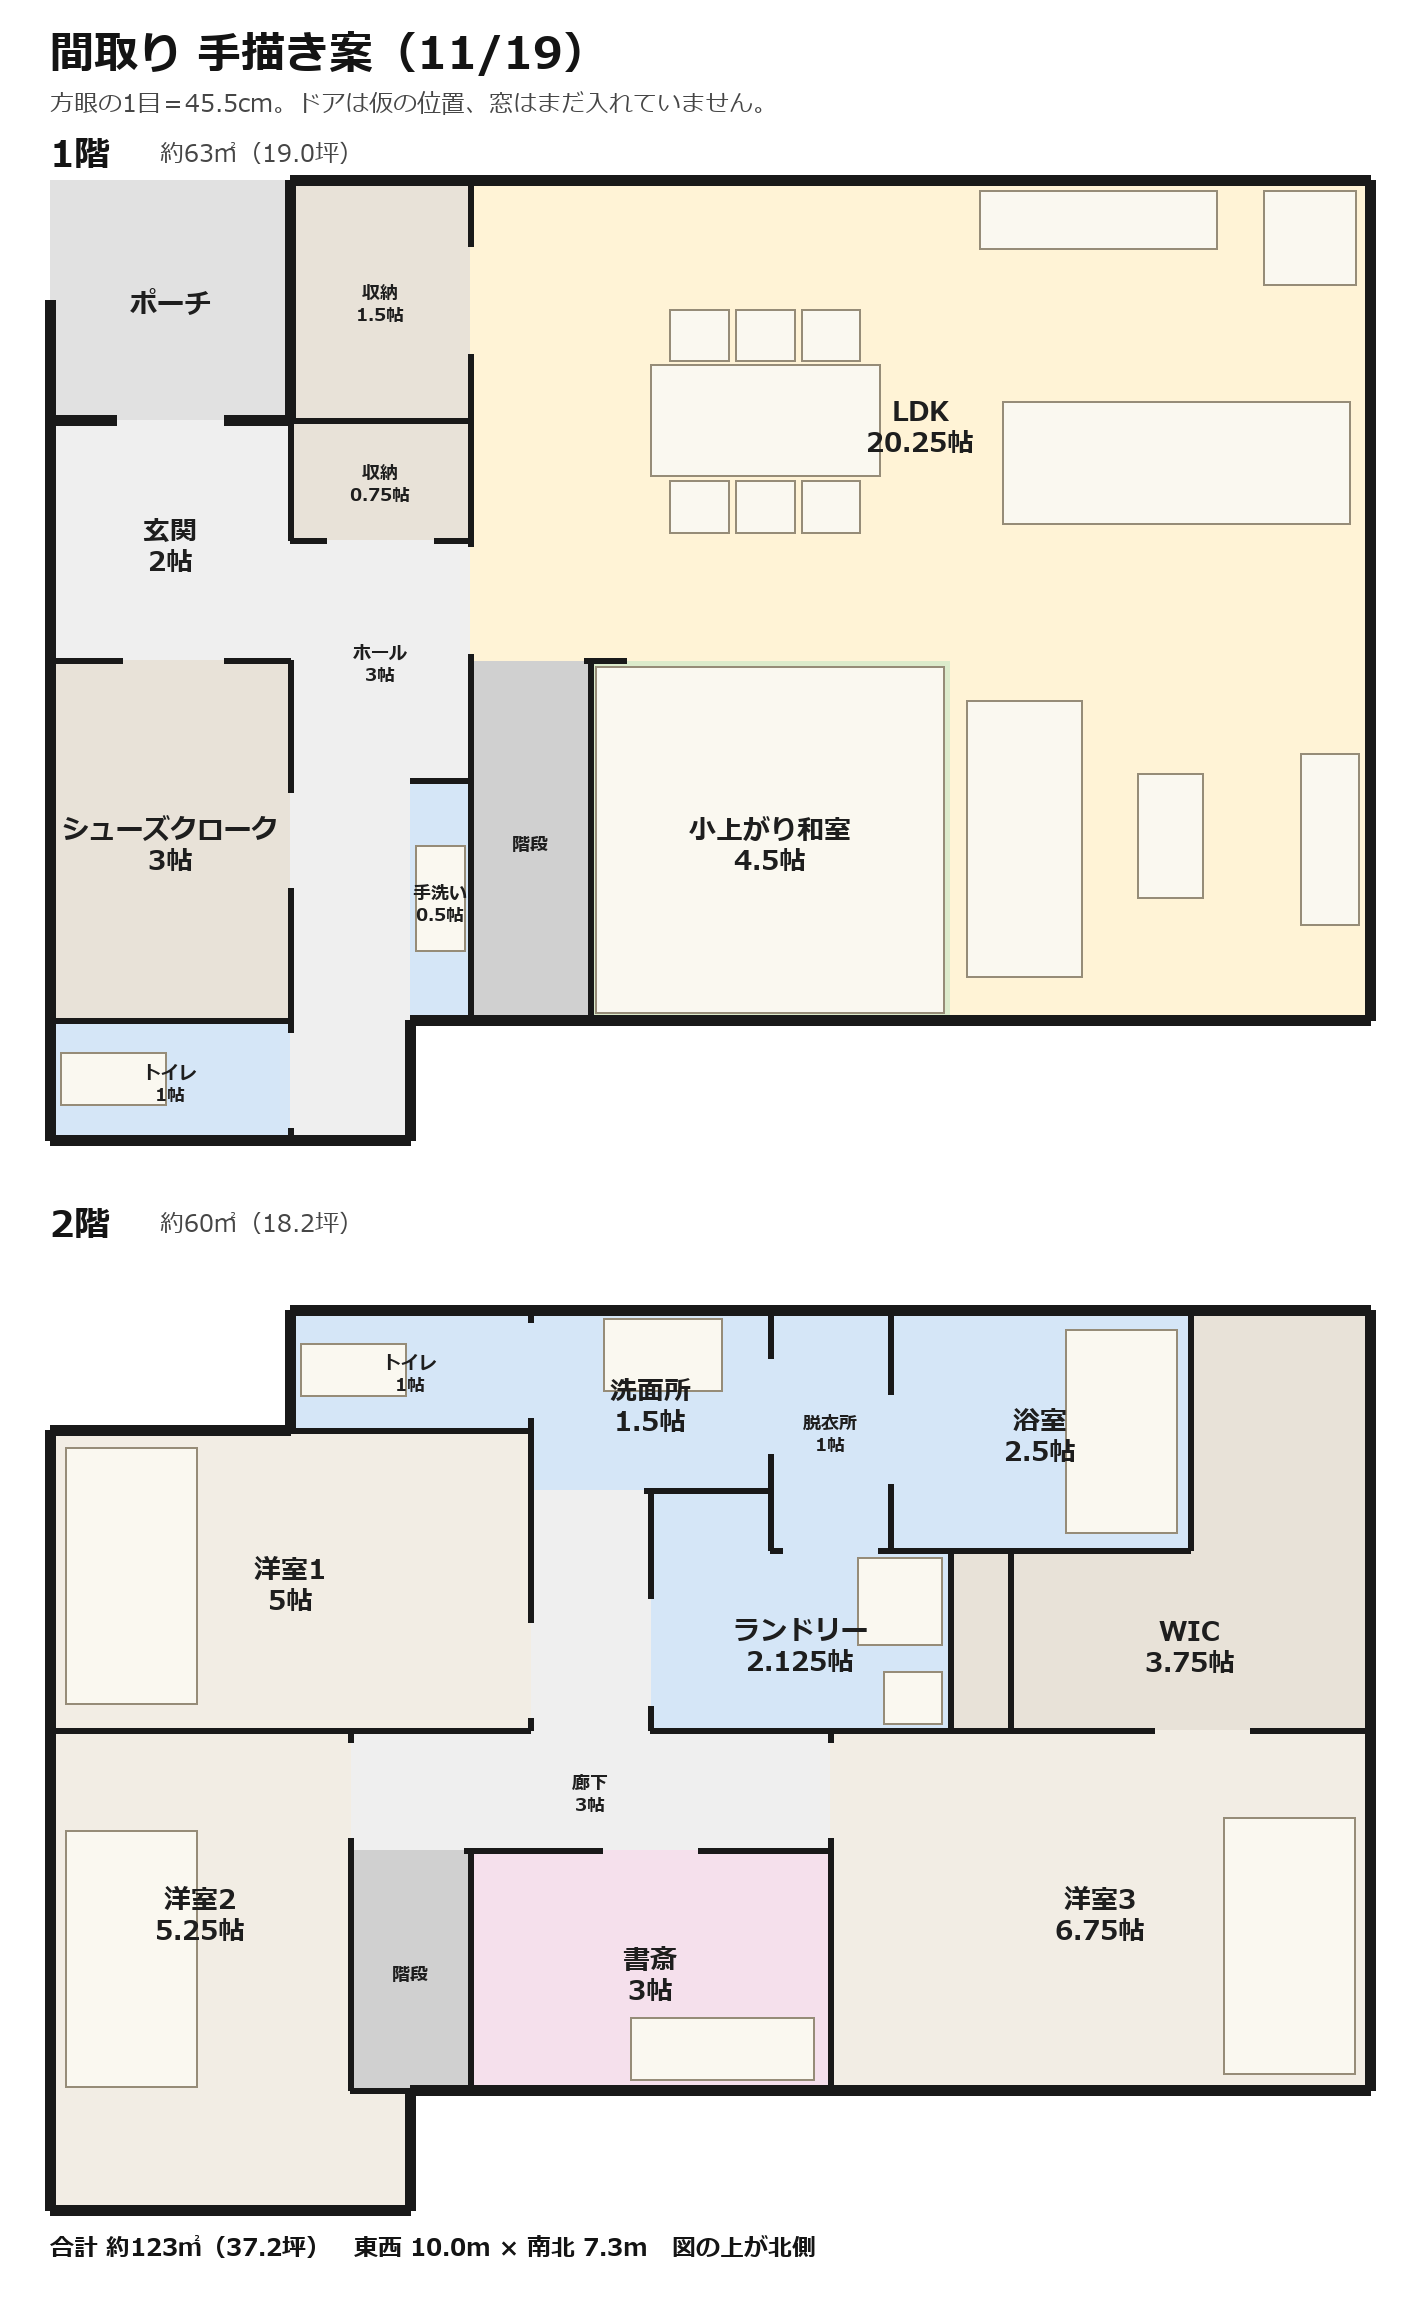
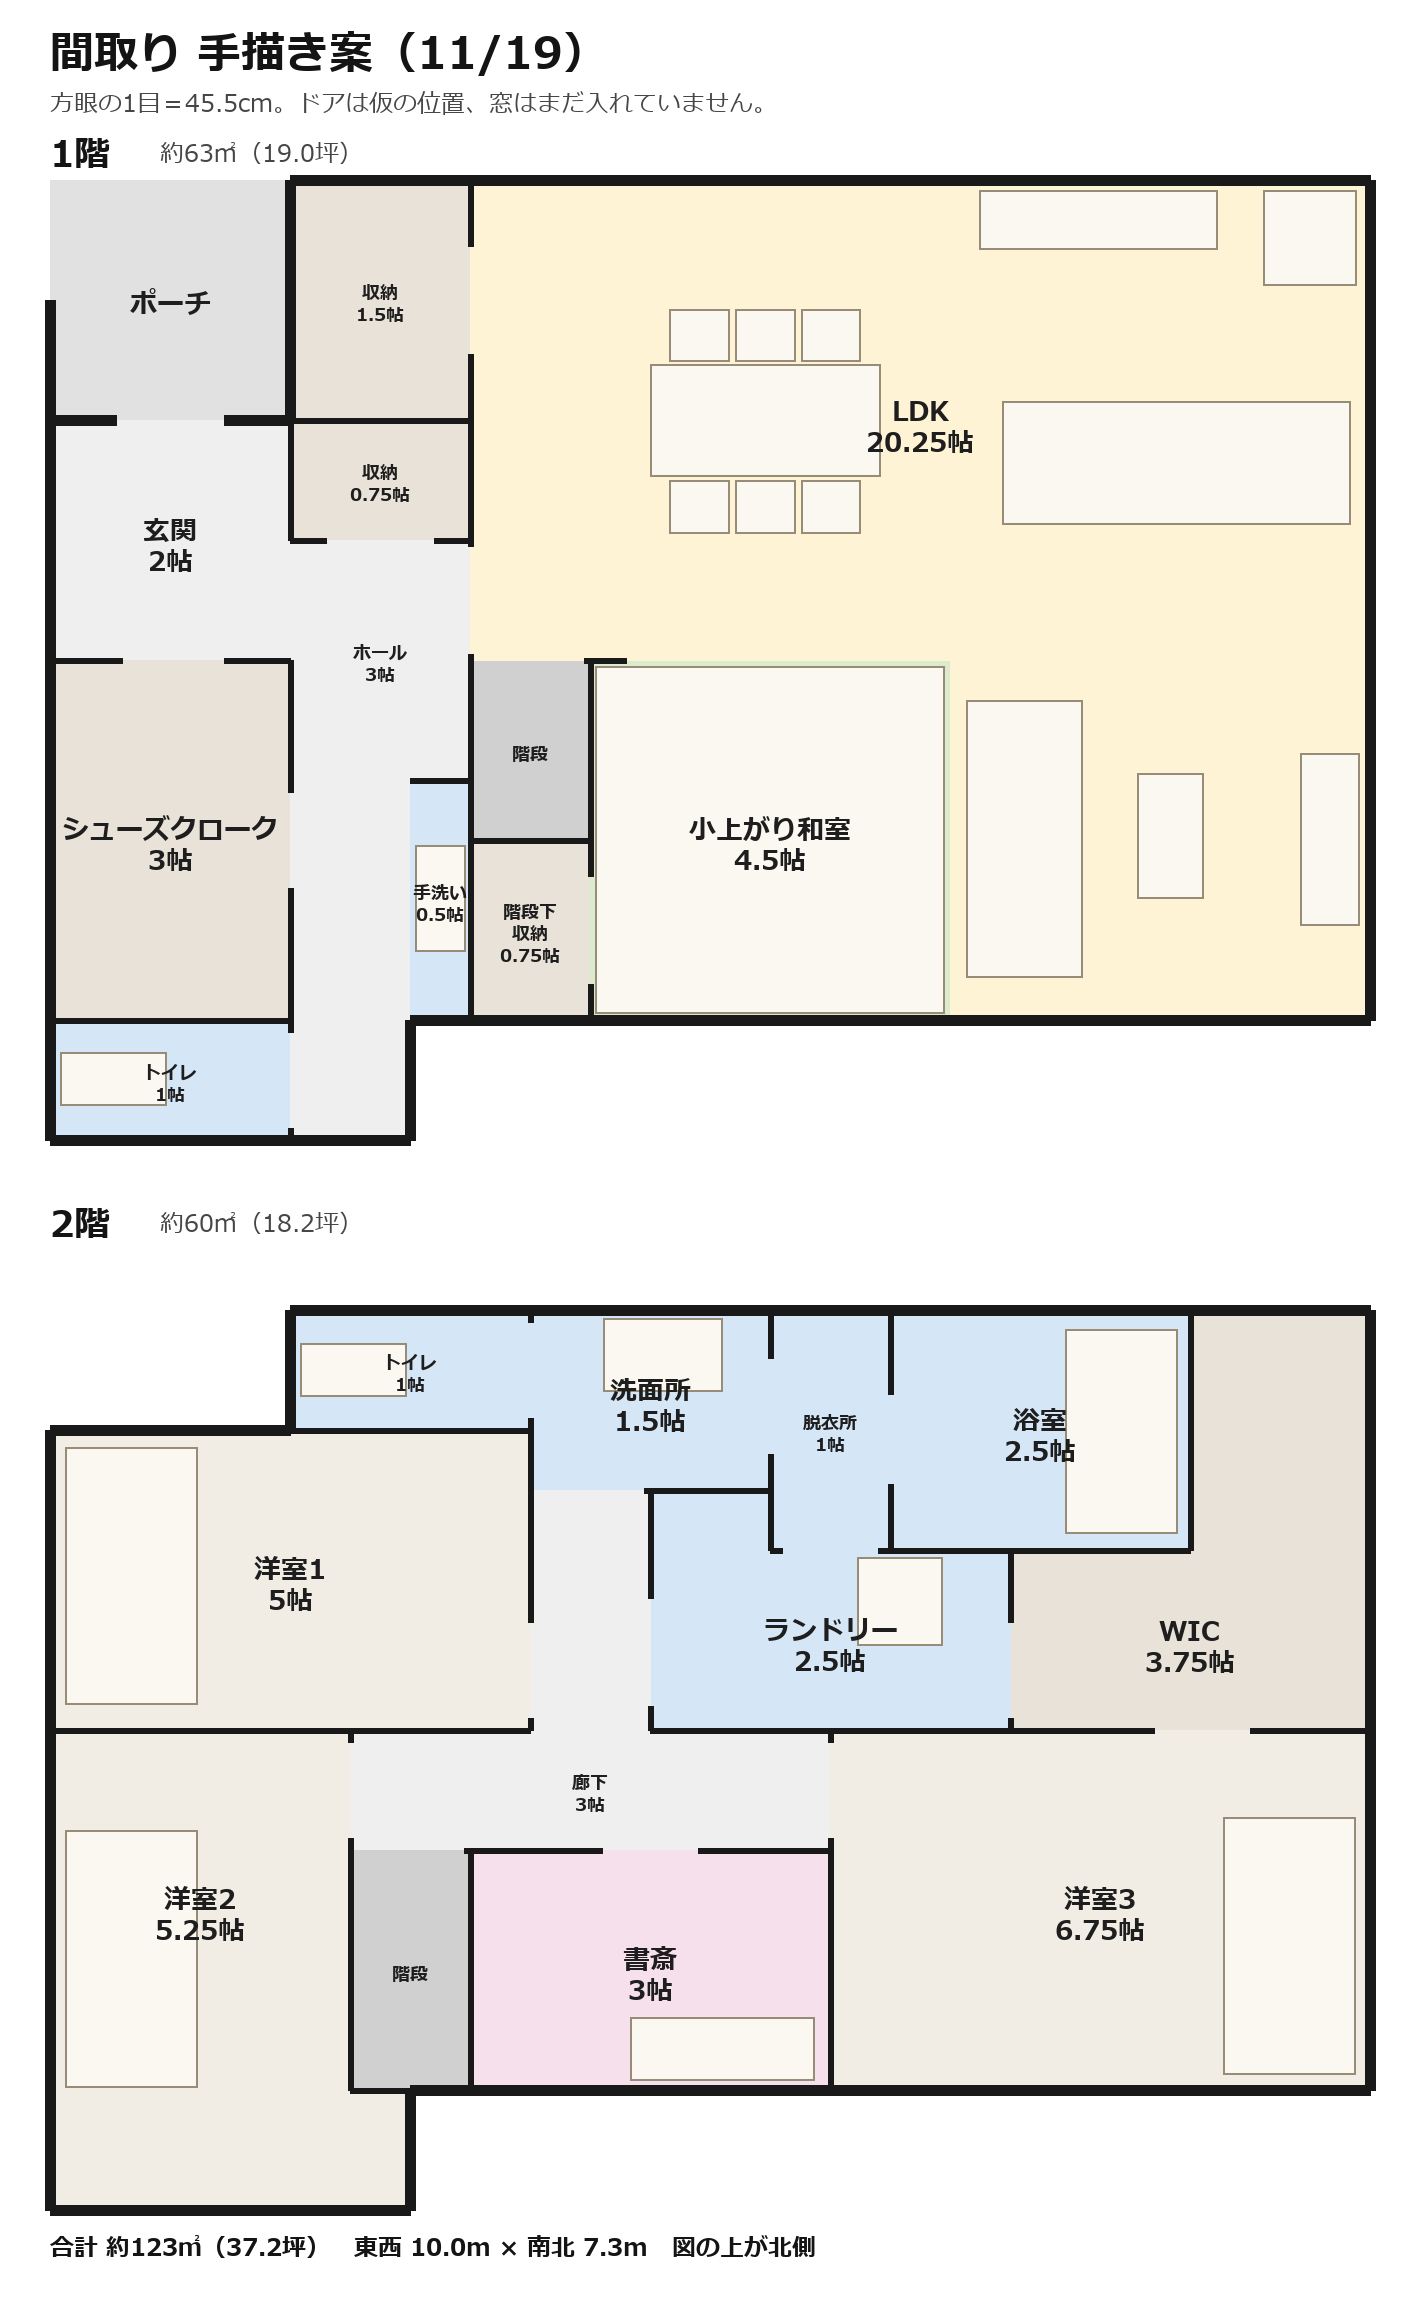
間取り 手描き案：ランドリーからWICへの出入口と階段下収納を追加

Changed region(s): [[0.5268, 0.6483, 0.7127, 0.7717], [0.3408, 0.4013, 0.4338, 0.4322], [0.3408, 0.3396, 0.4028, 0.3704]]

diff --git a/madori.html b/madori.html
@@ -52,7 +52,7 @@ canvas { display:block; width:100%; height:100%; touch-action:none; }
 <script type="module">
 import * as THREE from 'three';
 import { OrbitControls } from 'three/addons/controls/OrbitControls.js';
-const D = {"W":11,"H":8,"floors":[{"rooms":[{"name":"ポーチ","kind":"外","rects":[[0,0,2,2]],"label":"ポーチ"},{"name":"玄関","kind":"通路","rects":[[0,2,2,4]],"label":"玄関"},{"name":"シューズクローク","kind":"収納","rects":[[0,4,2,7]],"label":"シューズクローク"},{"name":"トイレ","kind":"水回り","rects":[[0,7,2,8]],"label":"トイレ"},{"name":"収納","kind":"収納","rects":[[2,0,3.5,2]],"label":"収納"},{"name":"収納(小)","kind":"収納","rects":[[2,2,3.5,3]],"label":"収納(小)"},{"name":"ホール","kind":"通路","rects":[[2,3,3.5,5],[2,5,3,8]],"label":"ホール"},{"name":"手洗い","kind":"水回り","rects":[[3,5,3.5,7]],"label":"手洗い"},{"name":"階段","kind":"階段","rects":[[3.5,4,4.5,7]],"label":"階段"},{"name":"和室","kind":"和室","rects":[[4.5,4,7.5,7]],"label":"小上がり和室"},{"name":"LDK","kind":"LDK","rects":[[3.5,0,11,4],[7.5,4,11,7]],"label":"LDK"}],"walls":[[[2.0,0.0,2.0,2.0],"ext"],[[3.5,0.0,3.5,0.55],"int"],[[3.5,1.45,3.5,3.05],"int"],[[3.5,3.95,3.5,7.0],"int"],[[11.0,0.0,11.0,7.0],"ext"],[[0.0,2.0,0.0,8.0],"ext"],[[2.0,2.0,2.0,3.0],"int"],[[2.0,4.0,2.0,5.1],"int"],[[2.0,5.9,2.0,7.1],"int"],[[2.0,7.9,2.0,8.0],"int"],[[4.5,4.0,4.5,7.0],"int"],[[3.0,7.0,3.0,8.0],"ext"],[[0.0,2.0,0.55,2.0],"ext"],[[1.45,2.0,2.0,2.0],"ext"],[[0.0,4.0,0.6,4.0],"int"],[[1.45,4.0,2.0,4.0],"int"],[[4.45,4.0,4.8,4.0],"int"],[[0.0,7.0,2.0,7.0],"int"],[[0.0,8.0,3.0,8.0],"ext"],[[2.0,0.0,11.0,0.0],"ext"],[[2.0,2.0,3.5,2.0],"int"],[[2.0,3.0,2.3,3.0],"int"],[[3.2,3.0,3.5,3.0],"int"],[[3.0,5.0,3.5,5.0],"int"],[[3.0,7.0,11.0,7.0],"ext"],[[0,1,0,2],"ext"]],"furn":[[1,"カップボード","kitchenCabinet",705,8,885,53,90,"S"],[1,"冷蔵庫(600L級)","fridgeFreezer",920,8,991,80,183,"S"],[1,"キッチン（シンク・IH）","kitchenCabinet",722,168,986,261,90,"N"],[1,"ダイニングテーブル","table",455,140,630,225,72,"S"],[1,"椅子","chair",470,98,515,138,85,"S"],[1,"椅子","chair",520,98,565,138,85,"S"],[1,"椅子","chair",570,98,615,138,85,"S"],[1,"椅子","chair",470,228,515,268,85,"N"],[1,"椅子","chair",520,228,565,268,85,"N"],[1,"椅子","chair",570,228,615,268,85,"N"],[1,"小上がり（高さ30cm）","texturableBox",414,369,678,632,30,"S"],[1,"ソファ","sofa2",695,395,783,605,85,"E"],[1,"ローテーブル","coffeeTable",825,450,875,545,40,"E"],[1,"テレビ台","flatTV",948,435,993,565,60,"W"],[1,"便器","toiletUnit",8,662,88,702,62,"E"],[1,"手洗い","washbasinWithCabinet",277,505,315,585,85,"W"]]},{"rooms":[{"name":"トイレ","kind":"水回り","rects":[[2,0.5,4,1.5]],"label":"トイレ"},{"name":"洗面所","kind":"水回り","rects":[[4,0.5,6,2]],"label":"洗面所"},{"name":"脱衣所","kind":"水回り","rects":[[6,0.5,7,2.5]],"label":"脱衣所"},{"name":"浴室","kind":"水回り","rects":[[7,0.5,9.5,2.5]],"label":"浴室"},{"name":"WIC","kind":"収納","rects":[[9.5,0.5,11,2.5],[8,2.5,11,4]],"label":"WIC"},{"name":"ランドリー","kind":"水回り","rects":[[5,2,6,2.5],[5,2.5,7.5,4]],"label":"ランドリー"},{"name":"PS?","kind":"収納","rects":[[7.5,2.5,8,4]],"label":"PS?"},{"name":"廊下","kind":"通路","rects":[[4,2,5,4],[2.5,4,6.5,5]],"label":"廊下"},{"name":"洋室1","kind":"個室","rects":[[0,1.5,4,4]],"label":"洋室1"},{"name":"洋室2","kind":"個室","rects":[[0,4,2.5,7],[0,7,3,8]],"label":"洋室2"},{"name":"階段","kind":"階段","rects":[[2.5,5,3.5,7]],"label":"階段"},{"name":"書斎?","kind":"書斎","rects":[[3.5,5,6.5,7]],"label":"書斎?"},{"name":"洋室3","kind":"個室","rects":[[6.5,4,11,7]],"label":"洋室3"}],"walls":[[[2.0,0.5,2.0,1.5],"ext"],[[4.0,0.5,4.0,0.6],"int"],[[4.0,1.4,4.0,3.1],"int"],[[4.0,3.9,4.0,4.0],"int"],[[6.0,0.5,6.0,0.9],"int"],[[6.0,1.7,6.0,2.5],"int"],[[7.0,0.5,7.0,1.2],"int"],[[7.0,1.95,7.0,2.5],"int"],[[9.5,0.5,9.5,2.5],"int"],[[11.0,0.5,11.0,7.0],"ext"],[[0.0,1.5,0.0,8.0],"ext"],[[5.0,2.0,5.0,2.9],"int"],[[5.0,3.8,5.0,4.0],"int"],[[7.5,2.5,7.5,4.0],"int"],[[8.0,2.5,8.0,4.0],"int"],[[2.5,4.0,2.5,4.1],"int"],[[2.5,4.9,2.5,7.0],"int"],[[6.5,4.0,6.5,4.1],"int"],[[6.5,4.9,6.5,7.0],"int"],[[3.5,5.0,3.5,7.0],"int"],[[3.0,7.0,3.0,8.0],"ext"],[[0.0,1.5,2.0,1.5],"ext"],[[0.0,4.0,4.0,4.0],"int"],[[5.0,4.0,9.2,4.0],"int"],[[10.0,4.0,11.0,4.0],"int"],[[0.0,8.0,3.0,8.0],"ext"],[[2.0,0.5,11.0,0.5],"ext"],[[2.0,1.5,4.0,1.5],"int"],[[3.45,5.0,4.6,5.0],"int"],[[5.4,5.0,6.5,5.0],"int"],[[2.5,7.0,3.0,7.0],"int"],[[3.0,7.0,11.0,7.0],"ext"],[[4.95,2.0,6.0,2.0],"int"],[[6.0,2.5,6.1,2.5],"int"],[[6.9,2.5,9.5,2.5],"int"]],"furn":[[2,"便器","toiletUnit",190,71,270,111,62,"E"],[2,"洗面台","washbasinWithCabinet",420,52,510,107,90,"S"],[2,"浴槽","fittedBath",770,60,855,215,60,"W"],[2,"ドラム式洗濯機","clothesWasher",612,233,677,300,105,"W"],[2,"図の四角（用途未確認）","texturableBox",632,320,677,360,85,"W"],[2,"ベッド","bed90x190",12,150,112,345,45,"S"],[2,"ベッド","bed90x190",12,440,112,635,45,"S"],[2,"ベッド","bed90x190",890,430,990,625,45,"S"],[2,"書斎の机","desk",440,582,580,630,74,"N"]]}]};
+const D = {"W":11,"H":8,"stair":{"rect":[3.5,4,4.5,7],"under":5.5},"floors":[{"rooms":[{"name":"ポーチ","kind":"外","rects":[[0,0,2,2]],"label":"ポーチ"},{"name":"玄関","kind":"通路","rects":[[0,2,2,4]],"label":"玄関"},{"name":"シューズクローク","kind":"収納","rects":[[0,4,2,7]],"label":"シューズクローク"},{"name":"トイレ","kind":"水回り","rects":[[0,7,2,8]],"label":"トイレ"},{"name":"収納","kind":"収納","rects":[[2,0,3.5,2]],"label":"収納"},{"name":"収納(小)","kind":"収納","rects":[[2,2,3.5,3]],"label":"収納(小)"},{"name":"ホール","kind":"通路","rects":[[2,3,3.5,5],[2,5,3,8]],"label":"ホール"},{"name":"手洗い","kind":"水回り","rects":[[3,5,3.5,7]],"label":"手洗い"},{"name":"階段","kind":"階段","rects":[[3.5,4,4.5,5.5]],"label":"階段"},{"name":"階段下収納","kind":"収納","rects":[[3.5,5.5,4.5,7]],"label":"階段下収納"},{"name":"和室","kind":"和室","rects":[[4.5,4,7.5,7]],"label":"小上がり和室"},{"name":"LDK","kind":"LDK","rects":[[3.5,0,11,4],[7.5,4,11,7]],"label":"LDK"}],"walls":[[[2.0,0.0,2.0,2.0],"ext"],[[3.5,0.0,3.5,0.55],"int"],[[3.5,1.45,3.5,3.05],"int"],[[3.5,3.95,3.5,7.0],"int"],[[11.0,0.0,11.0,7.0],"ext"],[[0.0,2.0,0.0,8.0],"ext"],[[2.0,2.0,2.0,3.0],"int"],[[2.0,4.0,2.0,5.1],"int"],[[2.0,5.9,2.0,7.1],"int"],[[2.0,7.9,2.0,8.0],"int"],[[4.5,4.0,4.5,5.8],"int"],[[4.5,6.7,4.5,7.0],"int"],[[3.0,7.0,3.0,8.0],"ext"],[[0.0,2.0,0.55,2.0],"ext"],[[1.45,2.0,2.0,2.0],"ext"],[[0.0,4.0,0.6,4.0],"int"],[[1.45,4.0,2.0,4.0],"int"],[[4.45,4.0,4.8,4.0],"int"],[[0.0,7.0,2.0,7.0],"int"],[[0.0,8.0,3.0,8.0],"ext"],[[2.0,0.0,11.0,0.0],"ext"],[[2.0,2.0,3.5,2.0],"int"],[[2.0,3.0,2.3,3.0],"int"],[[3.2,3.0,3.5,3.0],"int"],[[3.0,5.0,3.5,5.0],"int"],[[3.0,7.0,11.0,7.0],"ext"],[[3.5,5.5,4.5,5.5],"int"],[[0,1,0,2],"ext"]],"furn":[[1,"カップボード","kitchenCabinet",705,8,885,53,90,"S"],[1,"冷蔵庫(600L級)","fridgeFreezer",920,8,991,80,183,"S"],[1,"キッチン（シンク・IH）","kitchenCabinet",722,168,986,261,90,"N"],[1,"ダイニングテーブル","table",455,140,630,225,72,"S"],[1,"椅子","chair",470,98,515,138,85,"S"],[1,"椅子","chair",520,98,565,138,85,"S"],[1,"椅子","chair",570,98,615,138,85,"S"],[1,"椅子","chair",470,228,515,268,85,"N"],[1,"椅子","chair",520,228,565,268,85,"N"],[1,"椅子","chair",570,228,615,268,85,"N"],[1,"小上がり（高さ30cm）","texturableBox",414,369,678,632,30,"S"],[1,"ソファ","sofa2",695,395,783,605,85,"E"],[1,"ローテーブル","coffeeTable",825,450,875,545,40,"E"],[1,"テレビ台","flatTV",948,435,993,565,60,"W"],[1,"便器","toiletUnit",8,662,88,702,62,"E"],[1,"手洗い","washbasinWithCabinet",277,505,315,585,85,"W"]]},{"rooms":[{"name":"トイレ","kind":"水回り","rects":[[2,0.5,4,1.5]],"label":"トイレ"},{"name":"洗面所","kind":"水回り","rects":[[4,0.5,6,2]],"label":"洗面所"},{"name":"脱衣所","kind":"水回り","rects":[[6,0.5,7,2.5]],"label":"脱衣所"},{"name":"浴室","kind":"水回り","rects":[[7,0.5,9.5,2.5]],"label":"浴室"},{"name":"WIC","kind":"収納","rects":[[9.5,0.5,11,2.5],[8,2.5,11,4]],"label":"WIC"},{"name":"ランドリー","kind":"水回り","rects":[[5,2,6,2.5],[5,2.5,8,4]],"label":"ランドリー"},{"name":"廊下","kind":"通路","rects":[[4,2,5,4],[2.5,4,6.5,5]],"label":"廊下"},{"name":"洋室1","kind":"個室","rects":[[0,1.5,4,4]],"label":"洋室1"},{"name":"洋室2","kind":"個室","rects":[[0,4,2.5,7],[0,7,3,8]],"label":"洋室2"},{"name":"階段","kind":"階段","rects":[[2.5,5,3.5,7]],"label":"階段"},{"name":"書斎?","kind":"書斎","rects":[[3.5,5,6.5,7]],"label":"書斎?"},{"name":"洋室3","kind":"個室","rects":[[6.5,4,11,7]],"label":"洋室3"}],"walls":[[[2.0,0.5,2.0,1.5],"ext"],[[4.0,0.5,4.0,0.6],"int"],[[4.0,1.4,4.0,3.1],"int"],[[4.0,3.9,4.0,4.0],"int"],[[6.0,0.5,6.0,0.9],"int"],[[6.0,1.7,6.0,2.5],"int"],[[7.0,0.5,7.0,1.2],"int"],[[7.0,1.95,7.0,2.5],"int"],[[9.5,0.5,9.5,2.5],"int"],[[11.0,0.5,11.0,7.0],"ext"],[[0.0,1.5,0.0,8.0],"ext"],[[5.0,2.0,5.0,2.9],"int"],[[5.0,3.8,5.0,4.0],"int"],[[8.0,2.5,8.0,3.1],"int"],[[8.0,3.9,8.0,4.0],"int"],[[2.5,4.0,2.5,4.1],"int"],[[2.5,4.9,2.5,7.0],"int"],[[6.5,4.0,6.5,4.1],"int"],[[6.5,4.9,6.5,7.0],"int"],[[3.5,5.0,3.5,7.0],"int"],[[3.0,7.0,3.0,8.0],"ext"],[[0.0,1.5,2.0,1.5],"ext"],[[0.0,4.0,4.0,4.0],"int"],[[5.0,4.0,9.2,4.0],"int"],[[10.0,4.0,11.0,4.0],"int"],[[0.0,8.0,3.0,8.0],"ext"],[[2.0,0.5,11.0,0.5],"ext"],[[2.0,1.5,4.0,1.5],"int"],[[3.45,5.0,4.6,5.0],"int"],[[5.4,5.0,6.5,5.0],"int"],[[2.5,7.0,3.0,7.0],"int"],[[3.0,7.0,11.0,7.0],"ext"],[[4.95,2.0,6.0,2.0],"int"],[[6.0,2.5,6.1,2.5],"int"],[[6.9,2.5,9.5,2.5],"int"]],"furn":[[2,"便器","toiletUnit",190,71,270,111,62,"E"],[2,"洗面台","washbasinWithCabinet",420,52,510,107,90,"S"],[2,"浴槽","fittedBath",770,60,855,215,60,"W"],[2,"ドラム式洗濯機","clothesWasher",612,233,677,300,105,"W"],[2,"ベッド","bed90x190",12,150,112,345,45,"S"],[2,"ベッド","bed90x190",12,440,112,635,45,"S"],[2,"ベッド","bed90x190",890,430,990,625,45,"S"],[2,"書斎の机","desk",440,582,580,630,74,"N"]]}]};
 const M = 0.91, WH = 2.4, FL2 = 3.0;
 const COL = { 'LDK':0xfff3d6, '和室':0xdcebcb, '水回り':0xd5e6f7, '収納':0xe8e2d8, '個室':0xf2ede4, '通路':0xefefef, '階段':0xd0d0d0, '書斎':0xf5e0ec, '外':0xd9d9d9 };
 const FCOL = { kitchenCabinet:0xf5f5f2, fridgeFreezer:0xc9ced3, table:0xc9a36b, chair:0xb98d58, texturableBox:0xcfd8a8, sofa2:0x7d8fa6, coffeeTable:0xb98d58, flatTV:0x4a4a4a, toiletUnit:0xffffff, washbasinWithCabinet:0xffffff, fittedBath:0xffffff, clothesWasher:0xe9edf1, bed90x190:0xb7c7dd, desk:0xc9a36b };
@@ -123,9 +123,12 @@ const levels = D.floors.map((fl, n) => {
     const hh = (cid === 'chair' ? 45 : h) / 100;
     box(g, (x1 - x0) / 100, hh, (y1 - y0) / 100, (x0 + x1) / 200 - cx, hh / 2, (y0 + y1) / 200 - cz, FCOL[cid] ?? 0xdddddd);
   }
-  if (n === 0) {  // 1階の階段：北から南へ上がる段（上の階までの形は未確定）
-    const st = fl.rooms.find(r => r.kind === '階段').rects[0], N = 10, dz = (st[3] - st[1]) * M / N;
-    for (let i = 0; i < N; i++) box(g, (st[2] - st[0]) * M - 0.12, 0.11 * (i + 1), dz, (st[0] + st[2]) / 2 * M - cx, 0.055 * (i + 1), st[1] * M + dz * (i + .5) - cz, 0xcdb89a);
+  if (n === 0 && D.stair) {  // 1階の階段：北から南へ上がる段。収納の上は踏み板だけ（上の階までの形は未確定）
+    const st = D.stair.rect, N = 10, dz = (st[3] - st[1]) * M / N;
+    for (let i = 0; i < N; i++) {
+      const zc = st[1] * M + dz * (i + .5), top = 0.11 * (i + 1), open = zc > D.stair.under * M;
+      box(g, (st[2] - st[0]) * M - 0.12, open ? 0.05 : top, dz, (st[0] + st[2]) / 2 * M - cx, open ? top - 0.025 : top / 2, zc - cz, 0xcdb89a);
+    }
   }
   scene.add(g); return g;
 });
